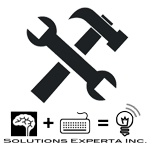
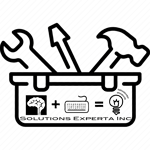
Issue0023 (#25)
* Task code setup

* Update icon.png

* add input parms

* Update task.json

* Update task.json

* Update task.json

* Update task.json

* Update task.json

* include push logic

* Update task.json

* Update uploadSecret.js

* Update uploadSecret.ps1

* Update uploadSecret.ps1

* Update uploadSecret.ps1

* Update task.json

* Update uploadSecret.js

* Update uploadSecret.js

* marketplace landing page update

* readme update

* Read me update

* Update uploadSecret.js

* fix script

* fs error

* fs fix

* throw error

* fix throw error

* file not exists implementation

* readme change

* readme update

* screenshot include

* Update README.md

* Update README.md

* Update README.md

* update readme

* acraksaccess info

* appinsight add

* Update README.md

* add screenshots

* Update README.md

* add acrcredentials

* Update README.md

* Update README.md

* Update vss-extension.json

* Update README.md

* Update README.md

* Update README.md

* Update README.md

* Update icon.png

diff --git a/ManageKeyVaultSecrets/src/uploadSecret.js b/ManageKeyVaultSecrets/src/uploadSecret.js
@@ -1,0 +1,60 @@
+"use strict";
+var __awaiter = (this && this.__awaiter) || function (thisArg, _arguments, P, generator) {
+    return new (P || (P = Promise))(function (resolve, reject) {
+        function fulfilled(value) { try { step(generator.next(value)); } catch (e) { reject(e); } }
+        function rejected(value) { try { step(generator["throw"](value)); } catch (e) { reject(e); } }
+        function step(result) { result.done ? resolve(result.value) : new P(function (resolve) { resolve(result.value); }).then(fulfilled, rejected); }
+        step((generator = generator.apply(thisArg, _arguments || [])).next());
+    });
+};
+Object.defineProperty(exports, "__esModule", { value: true });
+
+var tl = require('azure-pipelines-task-lib');
+var shell = require('node-powershell');
+var fs = require('fs');
+
+try {
+    var azureSubscriptionEndpoint = tl.getInput("azureSubscriptionEndpoint", true);
+    
+    var subcriptionId = tl.getEndpointDataParameter(azureSubscriptionEndpoint, "subscriptionId", false);
+    var servicePrincipalId = tl.getEndpointAuthorizationParameter(azureSubscriptionEndpoint, "serviceprincipalid", false);
+    var servicePrincipalKey = tl.getEndpointAuthorizationParameter(azureSubscriptionEndpoint, "serviceprincipalkey", false);
+    var tenantId = tl.getEndpointAuthorizationParameter(azureSubscriptionEndpoint,"tenantid", false);
+
+    var resourceGroupName = tl.getInput("resourceGroupName", true);
+    var keyVault = tl.getInput("keyVaultName", true);
+    var secretsFilePath = tl.getInput("secretsFilePath", true);
+    
+    console.log("Azure Subscription Id: " + subcriptionId);
+    console.log("ServicePrincipalId: " + servicePrincipalId);
+    console.log("ServicePrincipalKey: " + servicePrincipalKey);
+    console.log("Tenant Id: " + tenantId);
+    console.log("Resource Group: " + resourceGroupName);
+    console.log("Key Vault: " + keyVault);
+    console.log("Secret File Path: '" + secretsFilePath + "'");
+
+    fs.access(secretsFilePath, fs.F_OK, (err) => {
+        if(err){
+            throw new Error('File not exists');
+        } else {
+            var pwsh = new shell({ executionPolicy: 'Bypass', noProfile: true });
+            pwsh.addCommand(__dirname  + "/uploadSecret.ps1 -subscriptionId '" + subcriptionId + "' "
+                + "-servicePrincipalId '" + servicePrincipalId + "' -servicePrincipalKey '" + servicePrincipalKey + "' "
+                + "-tenantId '" + tenantId + "' "
+                + "-resourceGroupName '" + resourceGroupName + "' "
+                + "-keyVault '" + keyVault + "' "
+                + "-secretFilePath '" + secretsFilePath + "'"
+            ).then(function() {
+                return pwsh.invoke();
+            }).then(function(output){
+                pwsh.dispose();
+            }).catch(function(err){
+                console.log(err);
+                tl.setResult(tl.TaskResult.Failed, err.message || 'run() failed');
+                pwsh.dispose();
+            });
+        }
+    });
+} catch (err) {
+    tl.setResult(tl.TaskResult.Failed, err.message || 'run() failed');
+}

diff --git a/README.md b/README.md
@@ -1,53 +1,56 @@
-Experta Solutions DevOps custom tasks tools set
+# Purpose & description
+This is our current customs Azure DevOps tasks toolbox. Theses tasks has been specifially created for our needs and why not shared it for the entire community.
+Eventually, we will publish each of these tasks separately. If you have any comment/suggestion, please feel free to share it with us.
 
-## Available tasks:
-- VersionExtractor
-- ACRCredentials
-- ACRAKSAccess
-- AzureAppInsight
-- FileContentToBase64
+# Tasks include
 
-## Builds status
-<table>
-	<thead>
-		<tr>
-			<th>Branch</th>
-			<th>Status</th>
-		</tr>
-	</thead>
-	<tbody>
-		<tr>
-			<td>Master</td>
-			<td><img src="https://dev.azure.com/experta/ExpertaSolutions/_apis/build/status/GitHub-ExpertaDevOpsToolSet-CI?branchName=master"/></td>
-		</tr>
-	</tbody>
-</table>
+## VersionExtractor
+![VersionExtrator](_screenShots/VersionExtrator_v1.png)
+#### Output variables
+- versionMajor
+- versionMinor
+- versionPatch
+- fullVersion
+#### Important
+*** Build name require to have v0.0.0 format ***
 
-## Release status
-<table>
-	<thead>
-	<tr>
-		<th>Branch</th>
-		<th>Release status</th>
-	</tr>
-	</thead>
-	<tbody>
-	<tr>
-		<td>VS-Marketplace</td>
-		<td><img src="https://vsrm.dev.azure.com/experta/_apis/public/Release/badge/5b43050d-0a01-4269-ace5-9e22c920391c/17/53"/></td>
-	</tr>
-	</tbody>
-</table>
+## ACRCredentials
+![ACRCredentials](_screenShots/acrCredential_v1.png)
+## Action Type
+- Show: Get the current credentials information
+- Renew: Renew the current credentials information access
+#### Output variables
+- username
+- password
+- password2
 
-## Task Output variables
-- VersionExtrator
-	- versionMajor
-	- versionMinor
-	- versionPatch
-	- fullVersion
-- ACRCredentials
-	- username
-	- password
-	- password2
-- FileContentToBase64
-	- base64Content
+## ACRAKSAccess
+![ACRAKSAccess](_screenShots/ACRAKSAccess_v2.png)
+
+## AzureAppInsight
+![AppInsight](_screenShots/appInsight_v2.png)
+#### Output variables
+- instrumentationKey
+
+## FileContentToBase64
+![FileContentToBase64](_screenShots/FileContentToBase64_v2.png)
+#### Output variables
+- base64Content
+
+## ManageKeyVaultSecrets
+![ManageKeyVaultSecrets](_screenShots/manageKeyVaultSecrets_v2-preview.png)
+#### Secrets file path (expected file format content)
+```json
+[
+	{
+		"secret": "my_first_secret",
+		"value": "my_first_secret_value"
+	},
+	{
+		"secret": "my_second_secret",
+		"value": "my_second_secret_value"
+	}
+]
+```
+#### Important
+*** Ensure that your subscription service principal have proper access policies rights on your Azure Key Vault ***
